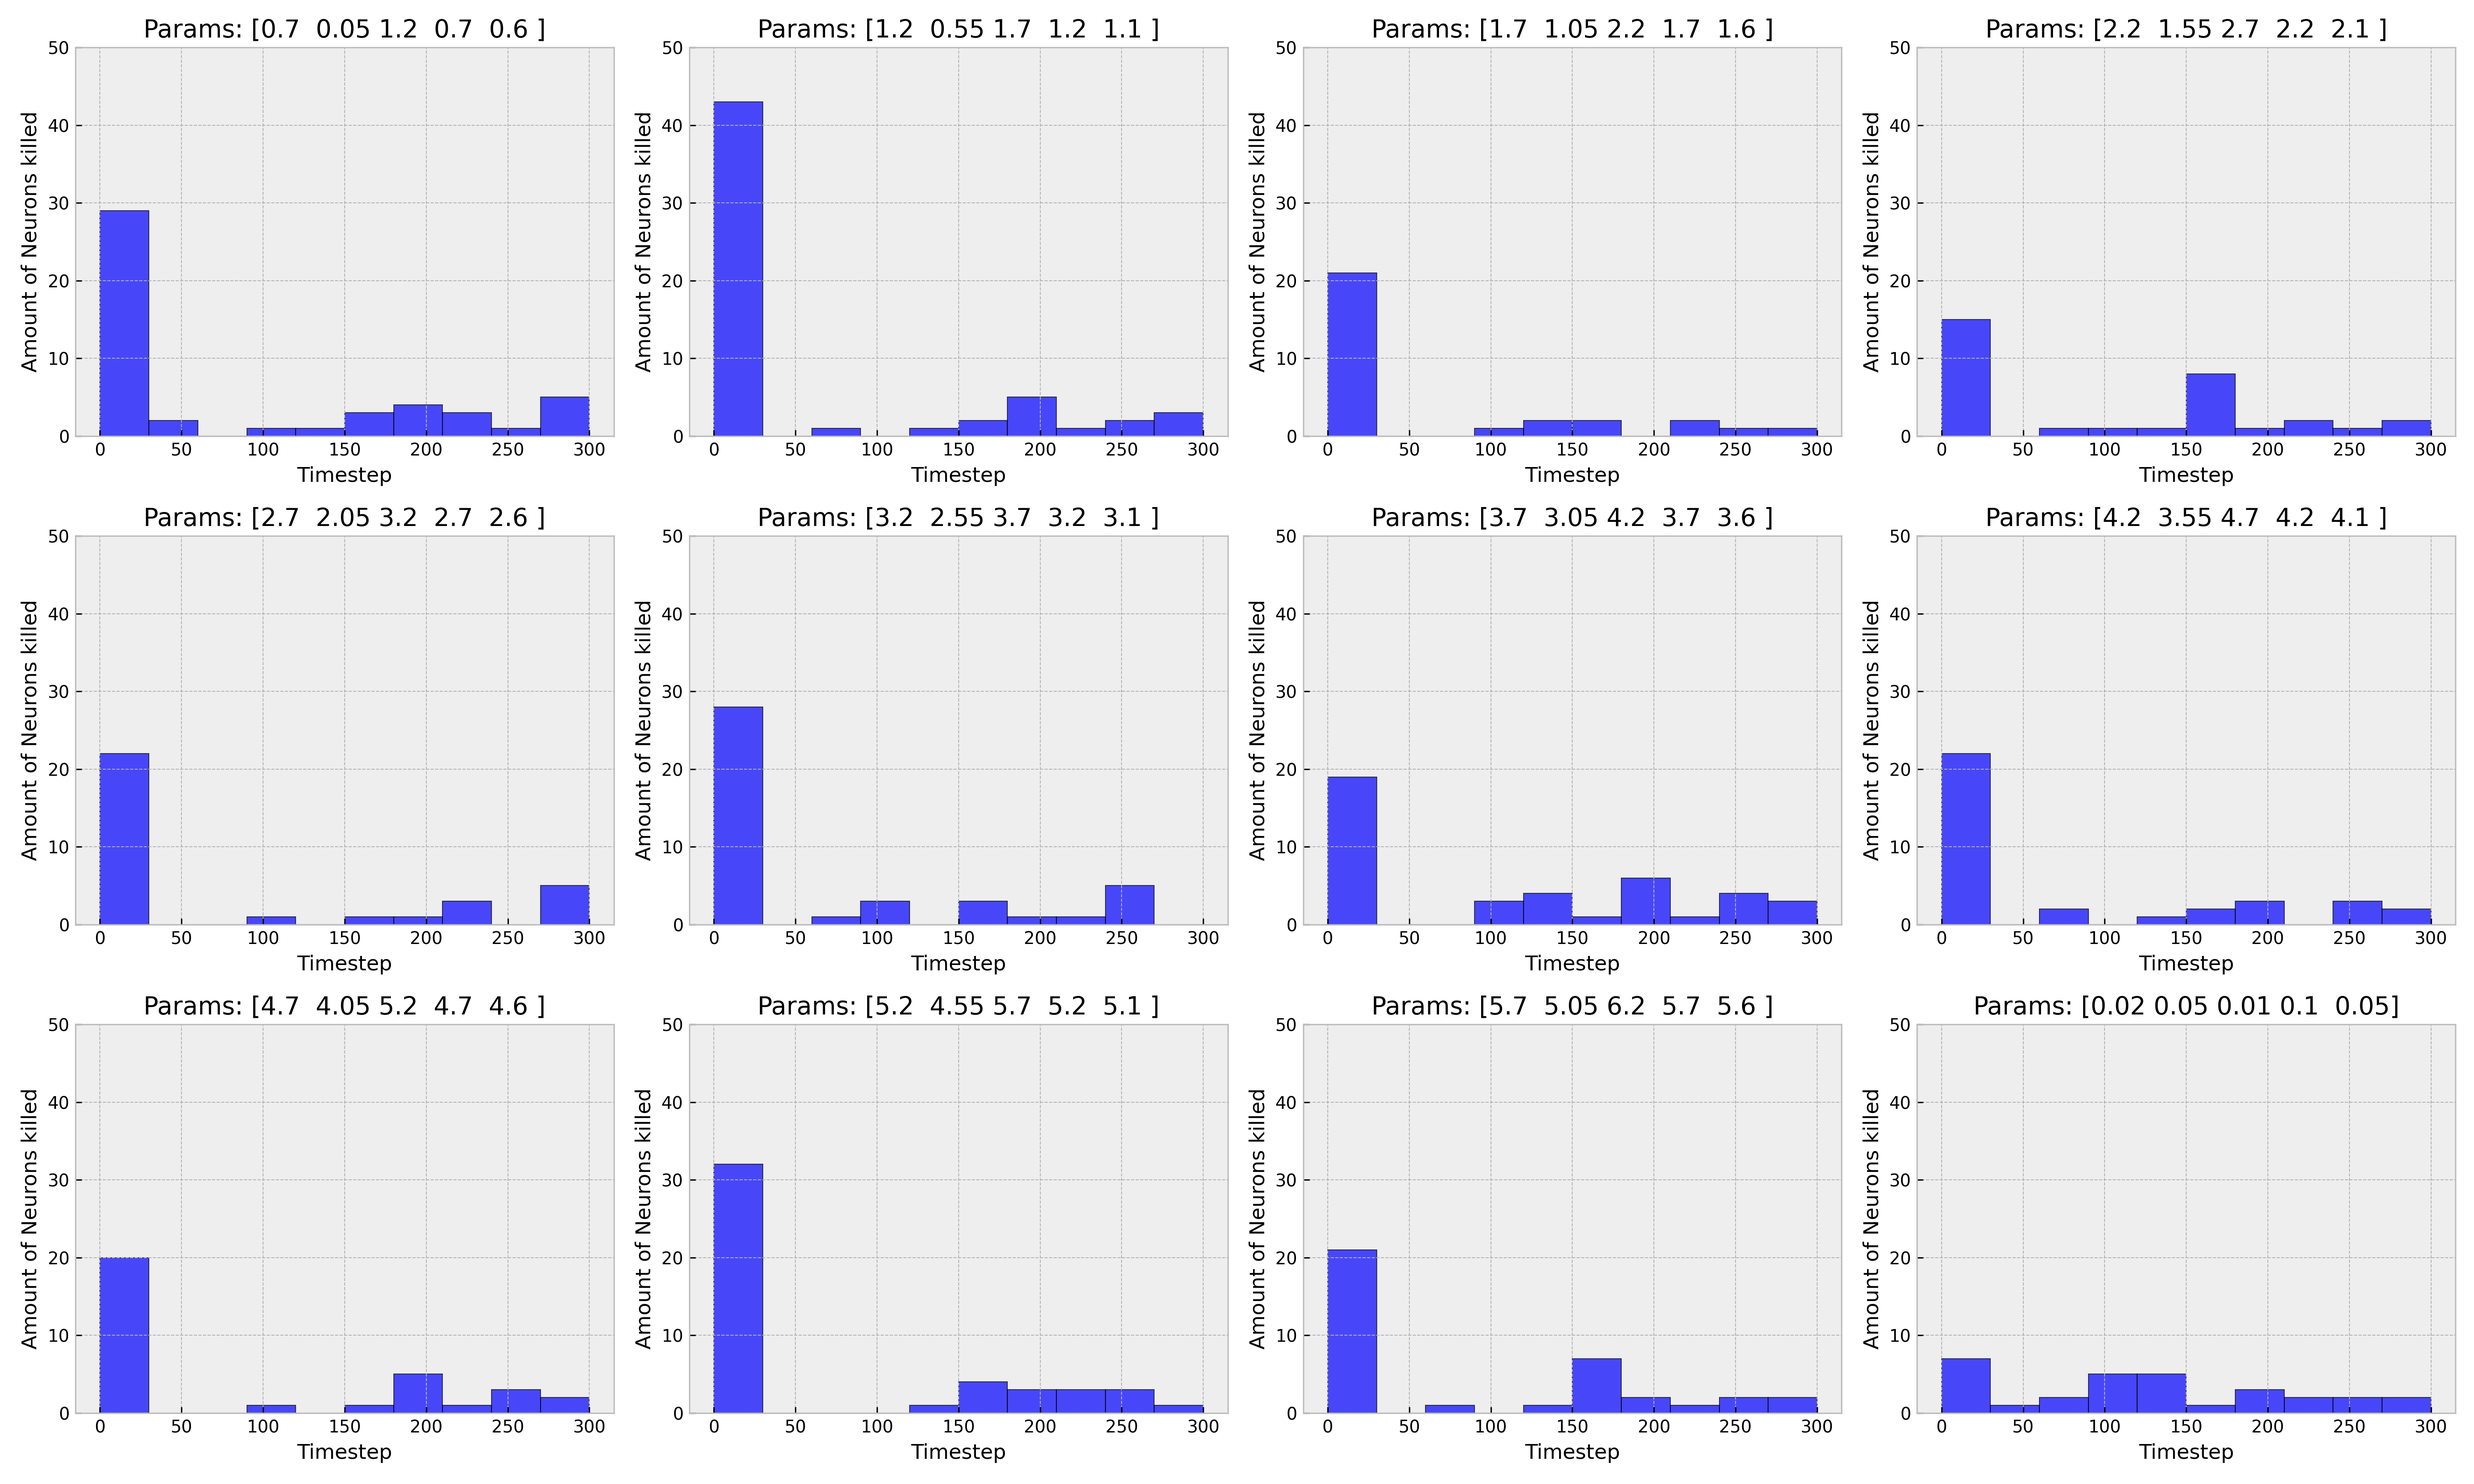
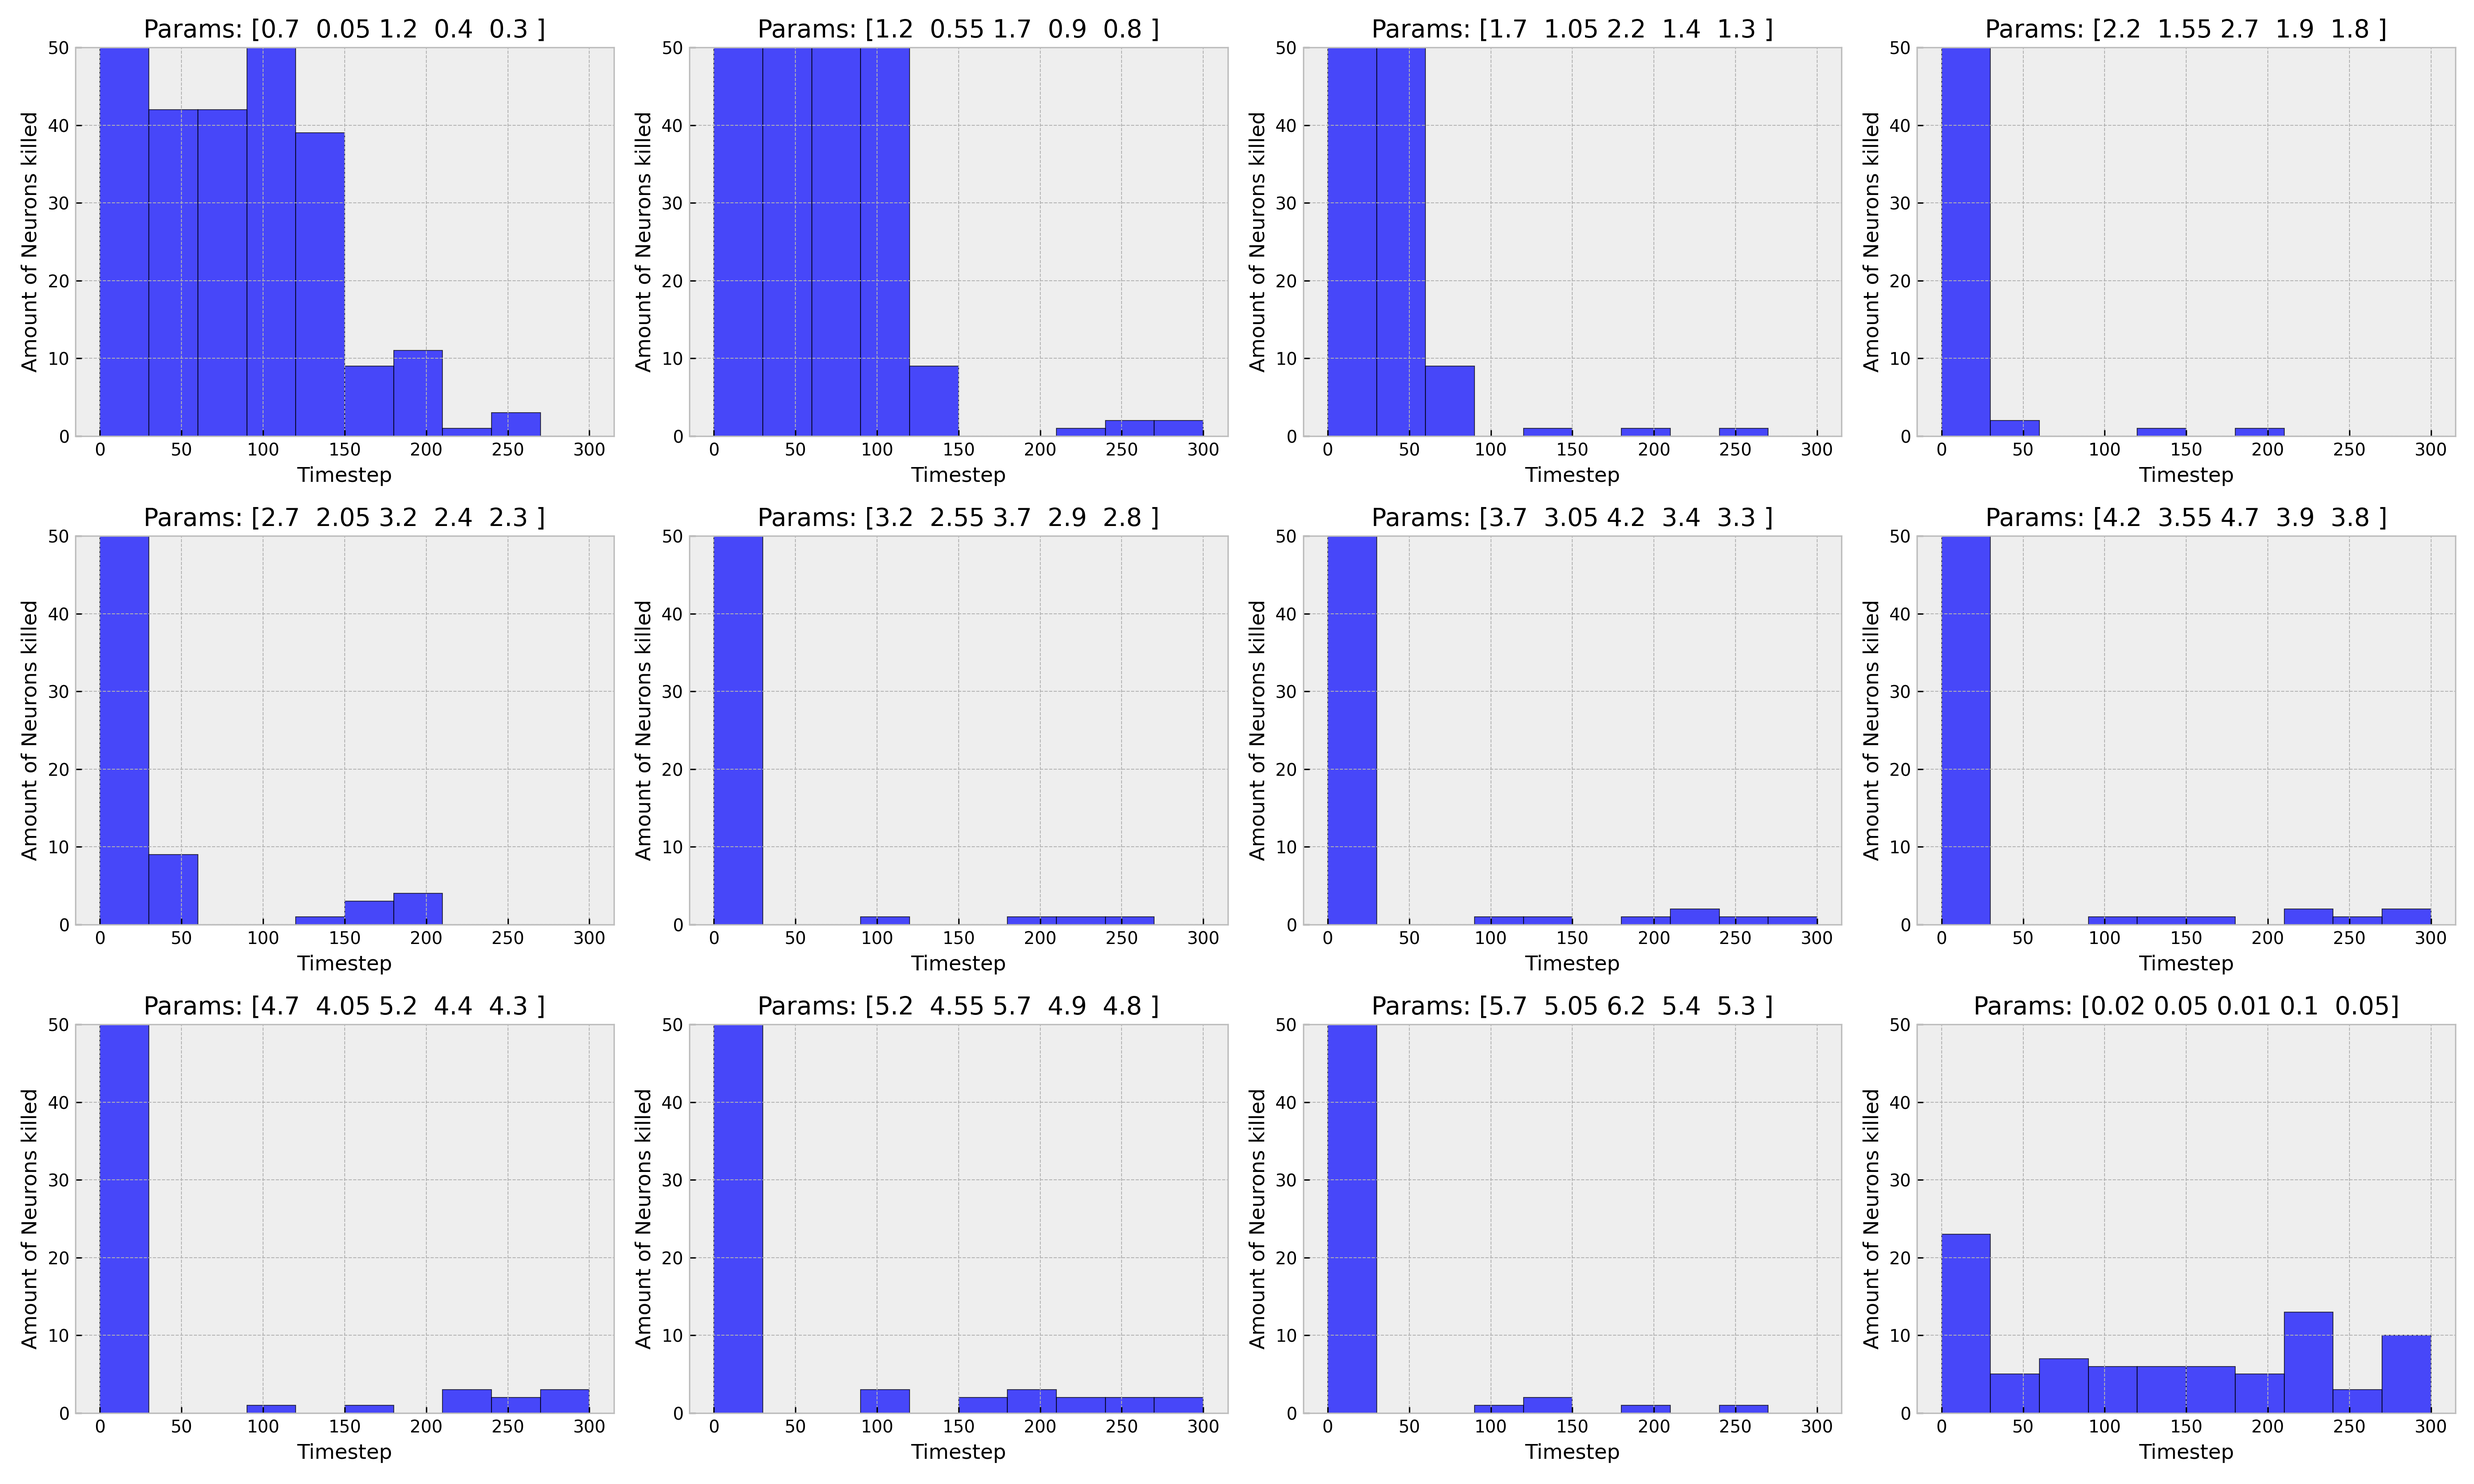
final commit

diff --git a/scripts/create_plots.py b/scripts/create_plots.py
@@ -1,7 +1,7 @@
+import math
+
 import matplotlib.pyplot as plt
 import numpy as np
-import os
-import math
 
 from config import *
 
@@ -91,8 +91,8 @@ def plot_total_concentration(grids, grid_name, timepoints, prion=False) -> None:
         plt.title("Total Protein Concentration Over Time")
     else:
         plt.title("Total Prion Concentration Over Time")
-    plt.xlabel("Timestep")
-    plt.ylabel("Total Concentration")
+    plt.xlabel("Timestep (days)")
+    plt.ylabel(r"Total Concentration ($\mu$g)")
 
     plt.tight_layout()
     plt.savefig(f"results/total_concentration_{grid_name}.png", dpi=FIG_DPI)
@@ -121,7 +121,7 @@ def plot_average_concentration(grids, grid_name, timepoints, prion=False) -> Non
     else:
         plt.title("Average Prion Concentration Over Time")
     plt.xlabel("Timestep")
-    plt.ylabel("Average Concentration")
+    plt.ylabel(r"Average Concentration ($\mu$g)")
 
     plt.tight_layout()
     plt.savefig(f"results/average_concentration_{grid_name}.png", dpi=FIG_DPI)
@@ -164,11 +164,9 @@ def plot_neuron_deaths(neuron_dict) -> None:
 
     handles, labels = plt.gca().get_legend_handles_labels()
     by_label = dict(zip(labels, handles))
-    plt.legend(
-        by_label.values(), by_label.keys(), title="Death Cause", loc="upper left"
-    )
-    plt.xlabel("X")
-    plt.ylabel("Y")
+    plt.legend(by_label.values(), by_label.keys(), title="Death Cause")
+    plt.xlabel("X (mm)")
+    plt.ylabel("Y (mm)")
     plt.title("Neuron Locations and Cause of Death")
     plt.savefig("results/neuron_deaths.png", dpi=FIG_DPI)
     plt.close()
@@ -205,8 +203,8 @@ def plot_prion_cell_death(prion_grid, neuron_dict, step) -> None:
         loc="upper right",
         title="Neuron Status",
     )
-    plt.xlabel("X")
-    plt.ylabel("Y")
+    plt.xlabel("X (mm)")
+    plt.ylabel("Y(mm)")
     plt.title("Neuron Locations and Prion Concentration")
     plt.savefig(f"results/prion_cell_death_{step:03d}.png", dpi=FIG_DPI)
     plt.close()
@@ -236,7 +234,7 @@ def plot_neuron_deaths_over_time(cell_death_counter, time) -> None:
         edgecolor="black",
     )
     plt.title("Neuron Deaths Over Time")
-    plt.xlabel("Timestep")
+    plt.xlabel("Timestep (days)")
     plt.ylabel("Number of Neuron Deaths")
 
     plt.tight_layout()

diff --git a/main.py b/main.py
@@ -2,9 +2,10 @@ import time
 
 import numpy as np
 from tqdm import tqdm
-from itertools import product
 
 from config import (
+    D_A,
+    D_B,
     GRID_SIZE,
     GRID_SPACING,
     HEALTH_NEURON,
@@ -14,8 +15,6 @@ from config import (
     k_A,
     k_B,
     k_c,
-    D_A,
-    D_B,
 )
 from scripts.create_gif import create_gif
 from scripts.create_plots import (
@@ -23,9 +22,9 @@ from scripts.create_plots import (
     plot_concentrations,
     plot_neuron_deaths,
     plot_neuron_deaths_over_time,
+    plot_param_search,
     plot_prion_cell_death,
     plot_total_concentration,
-    plot_param_search,
 )
 from scripts.data_manipulation import delete_npy, read_all_grids, read_grids_at_timestep
 from source.cells import create_neuron_dict, neuron_secrete
@@ -182,7 +181,6 @@ def plot_simulation_results(
     # Plot neuron deaths summary
     plot_neuron_deaths(neuron_dict)
     plot_neuron_deaths_over_time(cell_death_counter, TIME)
-
     plot_param_search(cell_death_results, param_combinations, TIME)
 
 
@@ -219,6 +217,7 @@ def param_search(
     DA_vals = np.linspace(D_A, D_A + step_size * (param_amount - 1), param_amount)
     DB_vals = np.linspace(D_B, D_B + step_size * (param_amount - 1), param_amount)
 
+    # Custom variables for the last parameter
     kA_vals[-1] = 0.02
     kB_vals[-1] = 0.05
     kc_vals[-1] = 0.01

diff --git a/config.py b/config.py
@@ -23,8 +23,8 @@ GRID_SPACING = 0.045  # Grid spacing (mm)
 k_A = 0.7  # Protein decay rate (μg/μg/day)
 k_B = 0.05  # Prion decay rate (μg/μg/day)
 k_c = 1.2  # Conversion rate (μg/μg/day)
-D_A = 0.7  # Protein diffusion coefficient (mm^2/day)
-D_B = 0.6  # Prion diffusion coefficient (mm^2/day)
+D_A = 0.4  # Protein diffusion coefficient (mm^2/day)
+D_B = 0.3  # Prion diffusion coefficient (mm^2/day)
 
 # Simulation time parameters
 TIME = 300  # Total simulation time (days)
@@ -38,6 +38,6 @@ FIG_DPI = 300  # Figure resolution
 
 # Biological parameters
 SECRETED_VALUE = 0.4  # Protein secreted per neuron per day (μm/μg)
-PRION_THRESHOLD = 0.005  # Prion threshold for neuron death (μg/μg neuron)
+PRION_THRESHOLD = 0.001  # Prion threshold for neuron death (μg/μg neuron)
 PRION_GROWTH_THRESHOLD = 0.1  # Prion growth rate (μg/μg/day)
 NUMBER_OF_NEURONS = 500  # Total number of neurons in the simulation
